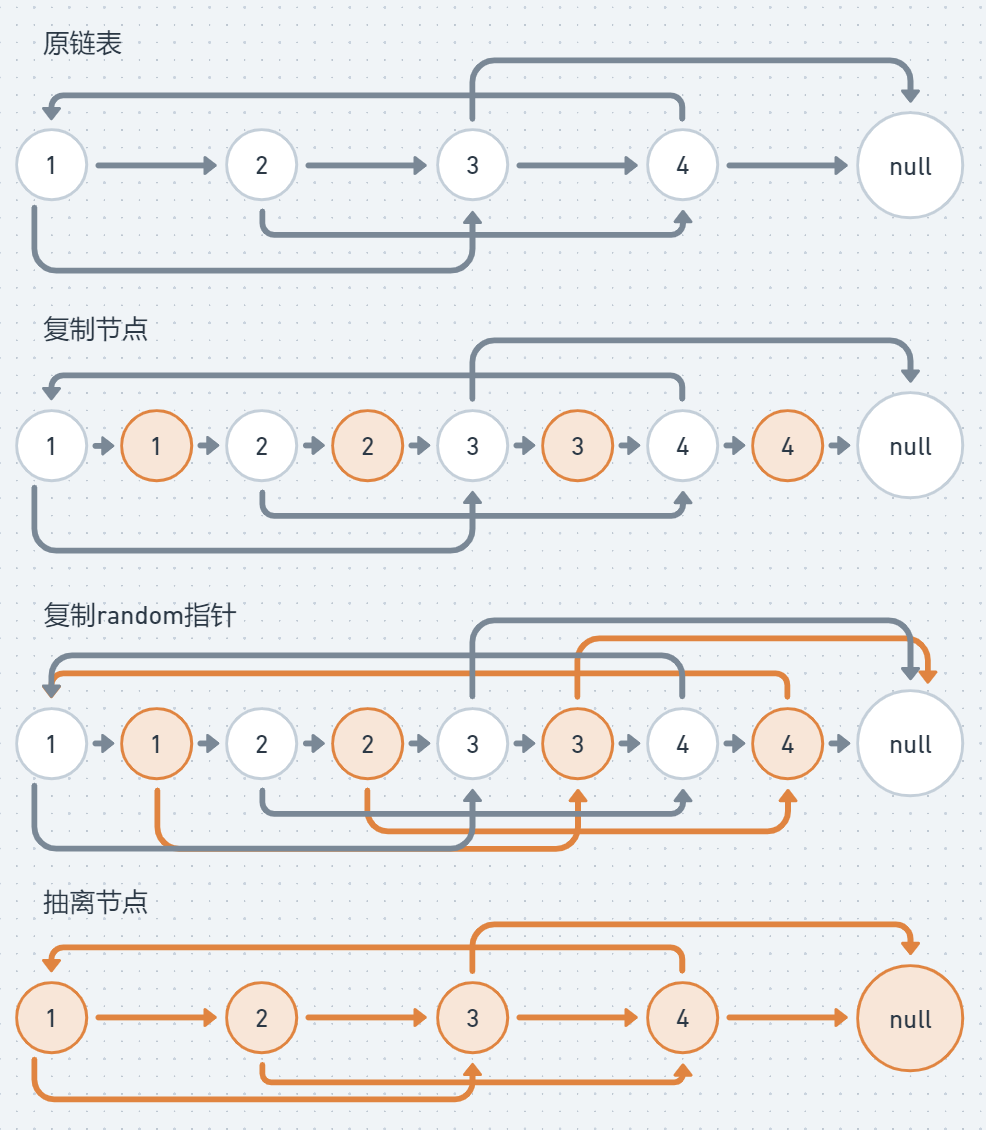
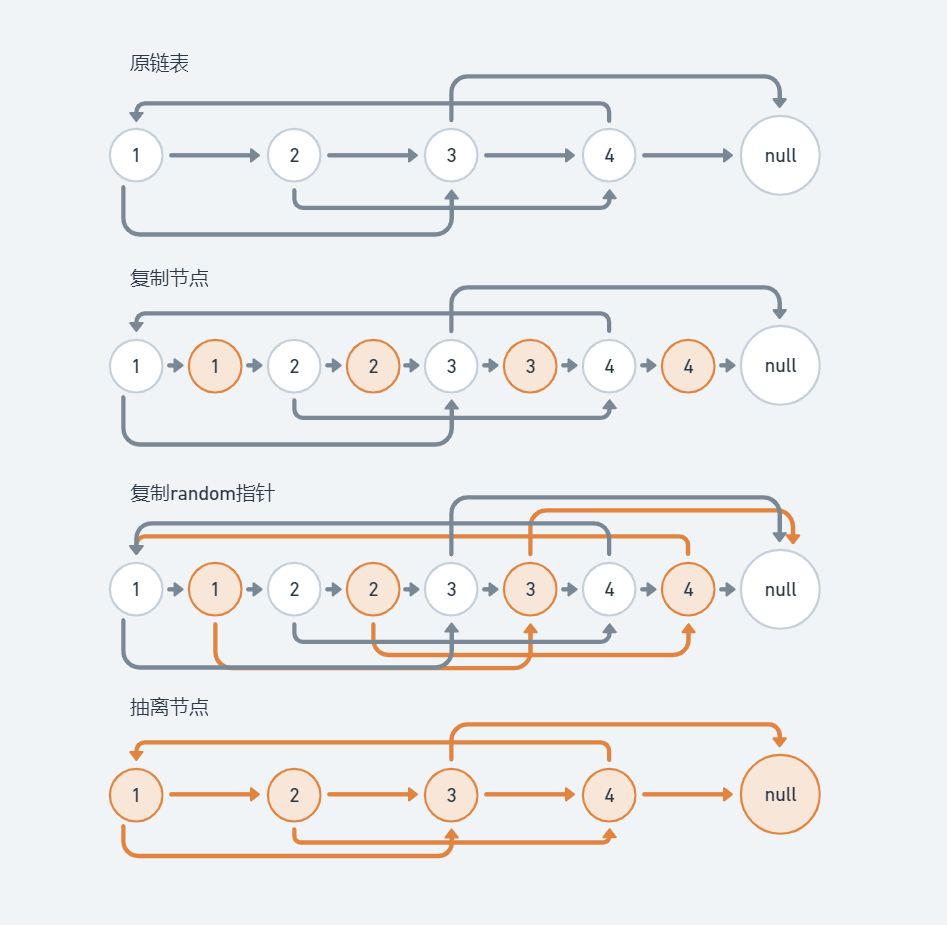
update image

diff --git a/algorithm/138. 复制带随机指针的链表.md b/algorithm/138. 复制带随机指针的链表.md
@@ -112,7 +112,7 @@ class Solution {
 
 如下图所示：
 
-<img src="images/138-4.png" style="zoom:70%;" />
+<img src="images/138-4.png" alt="img" style="zoom:80%;" />
 
 代码如下：
 
